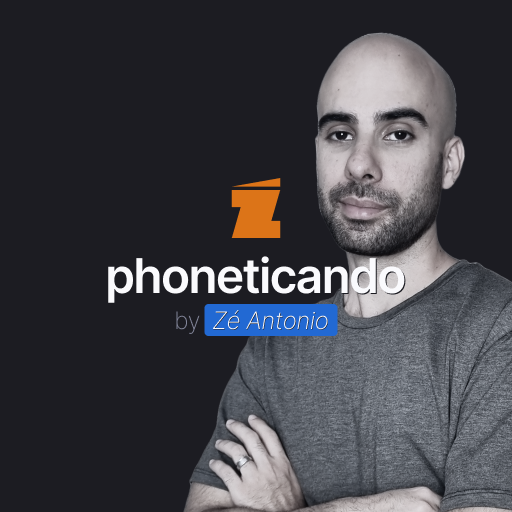
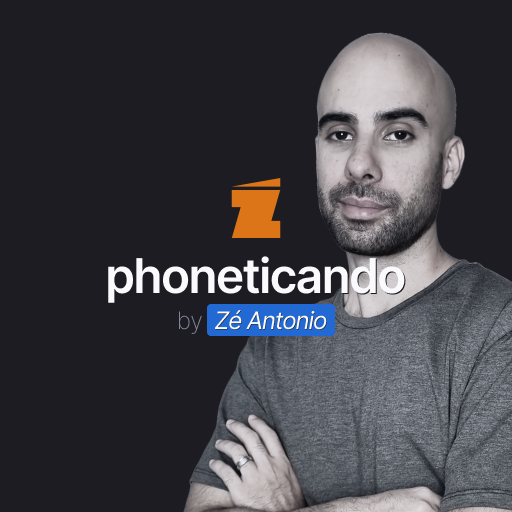
changes thumbnails

Changed region(s): [[0.3438, 0.5938, 0.6875, 0.6562]]

diff --git a/styles/home.css b/styles/home.css
@@ -57,7 +57,7 @@
 }
 
 .info-name-highlight {
-    font-weight: 200;
+    font-weight: 400;
     font-size: 16px;
     font-family: var(--font-inter-tight);
     background-color: var(--cerulean600);

diff --git a/styles/highlight.css b/styles/highlight.css
@@ -1,5 +1,5 @@
 .ze-highlight {
-    font-weight: 200;
+    font-weight: 400;
     font-size: 16px;
     font-family: var(--font-inter-tight);
     background-color: var(--cerulean600);
